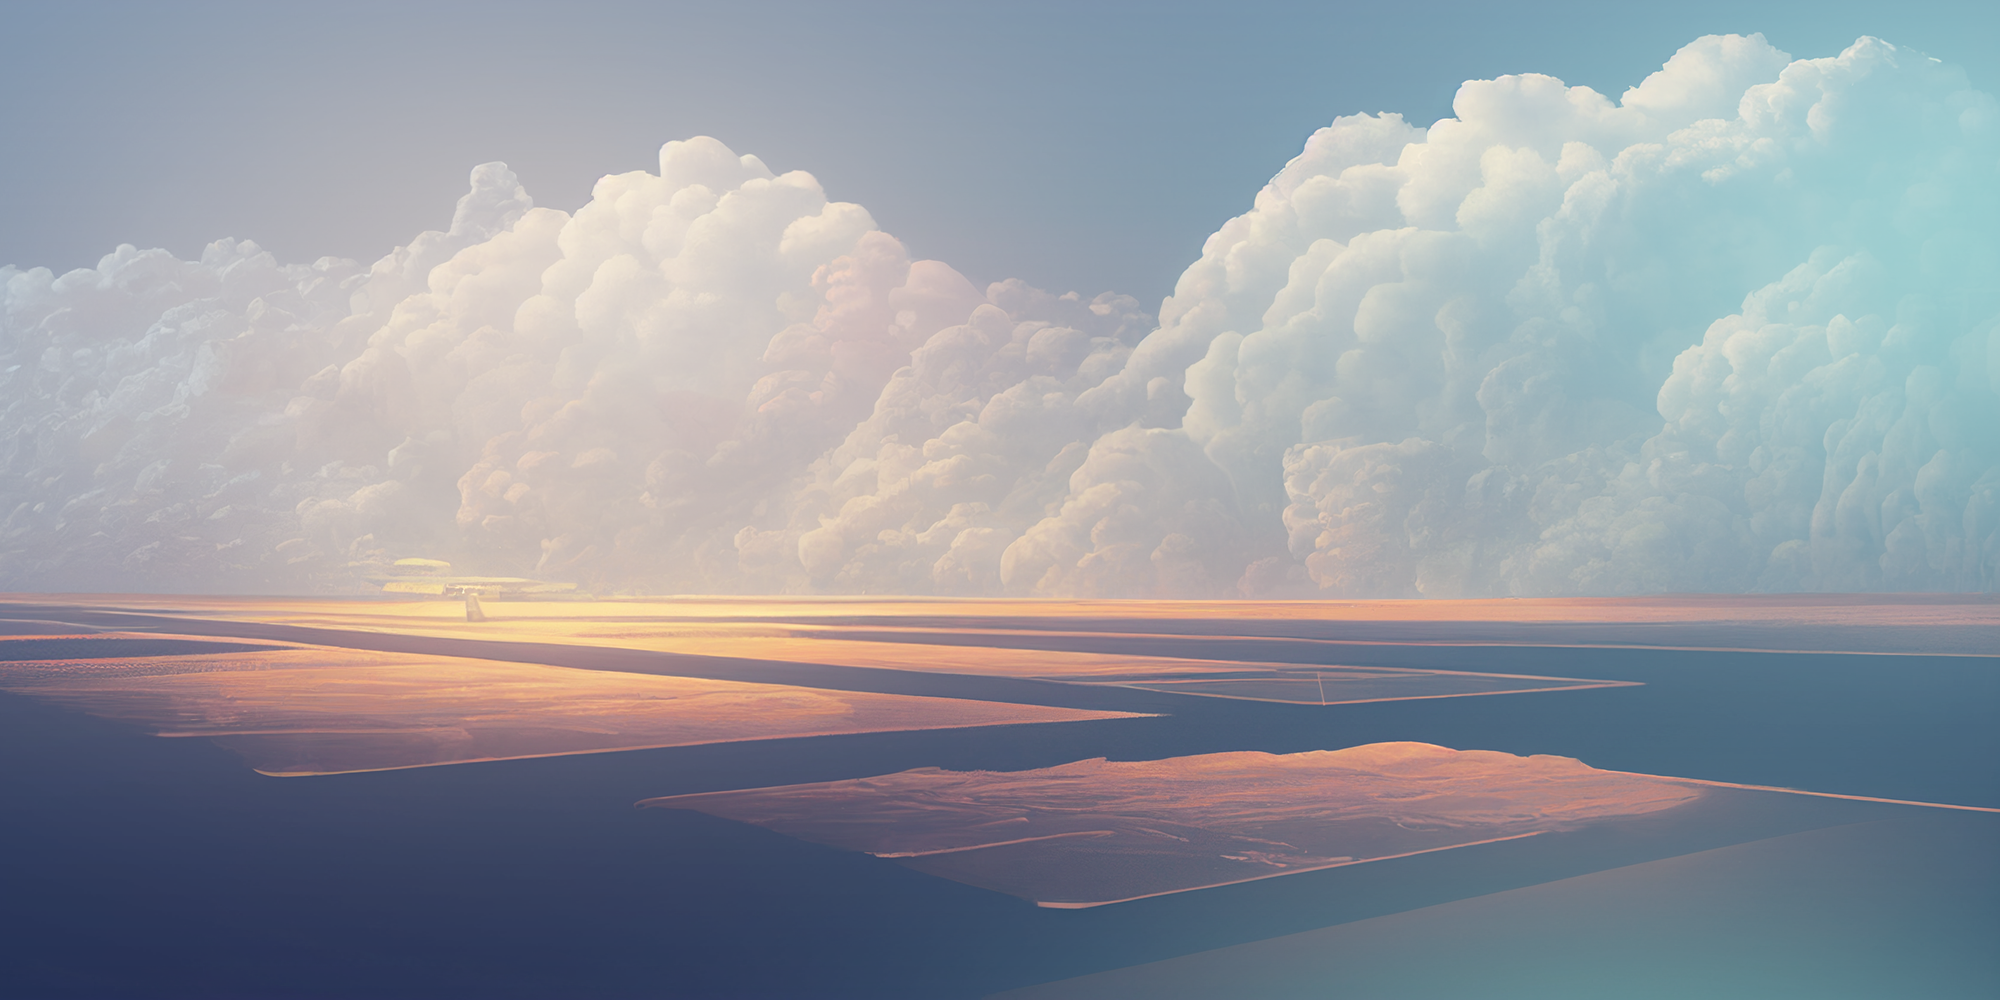
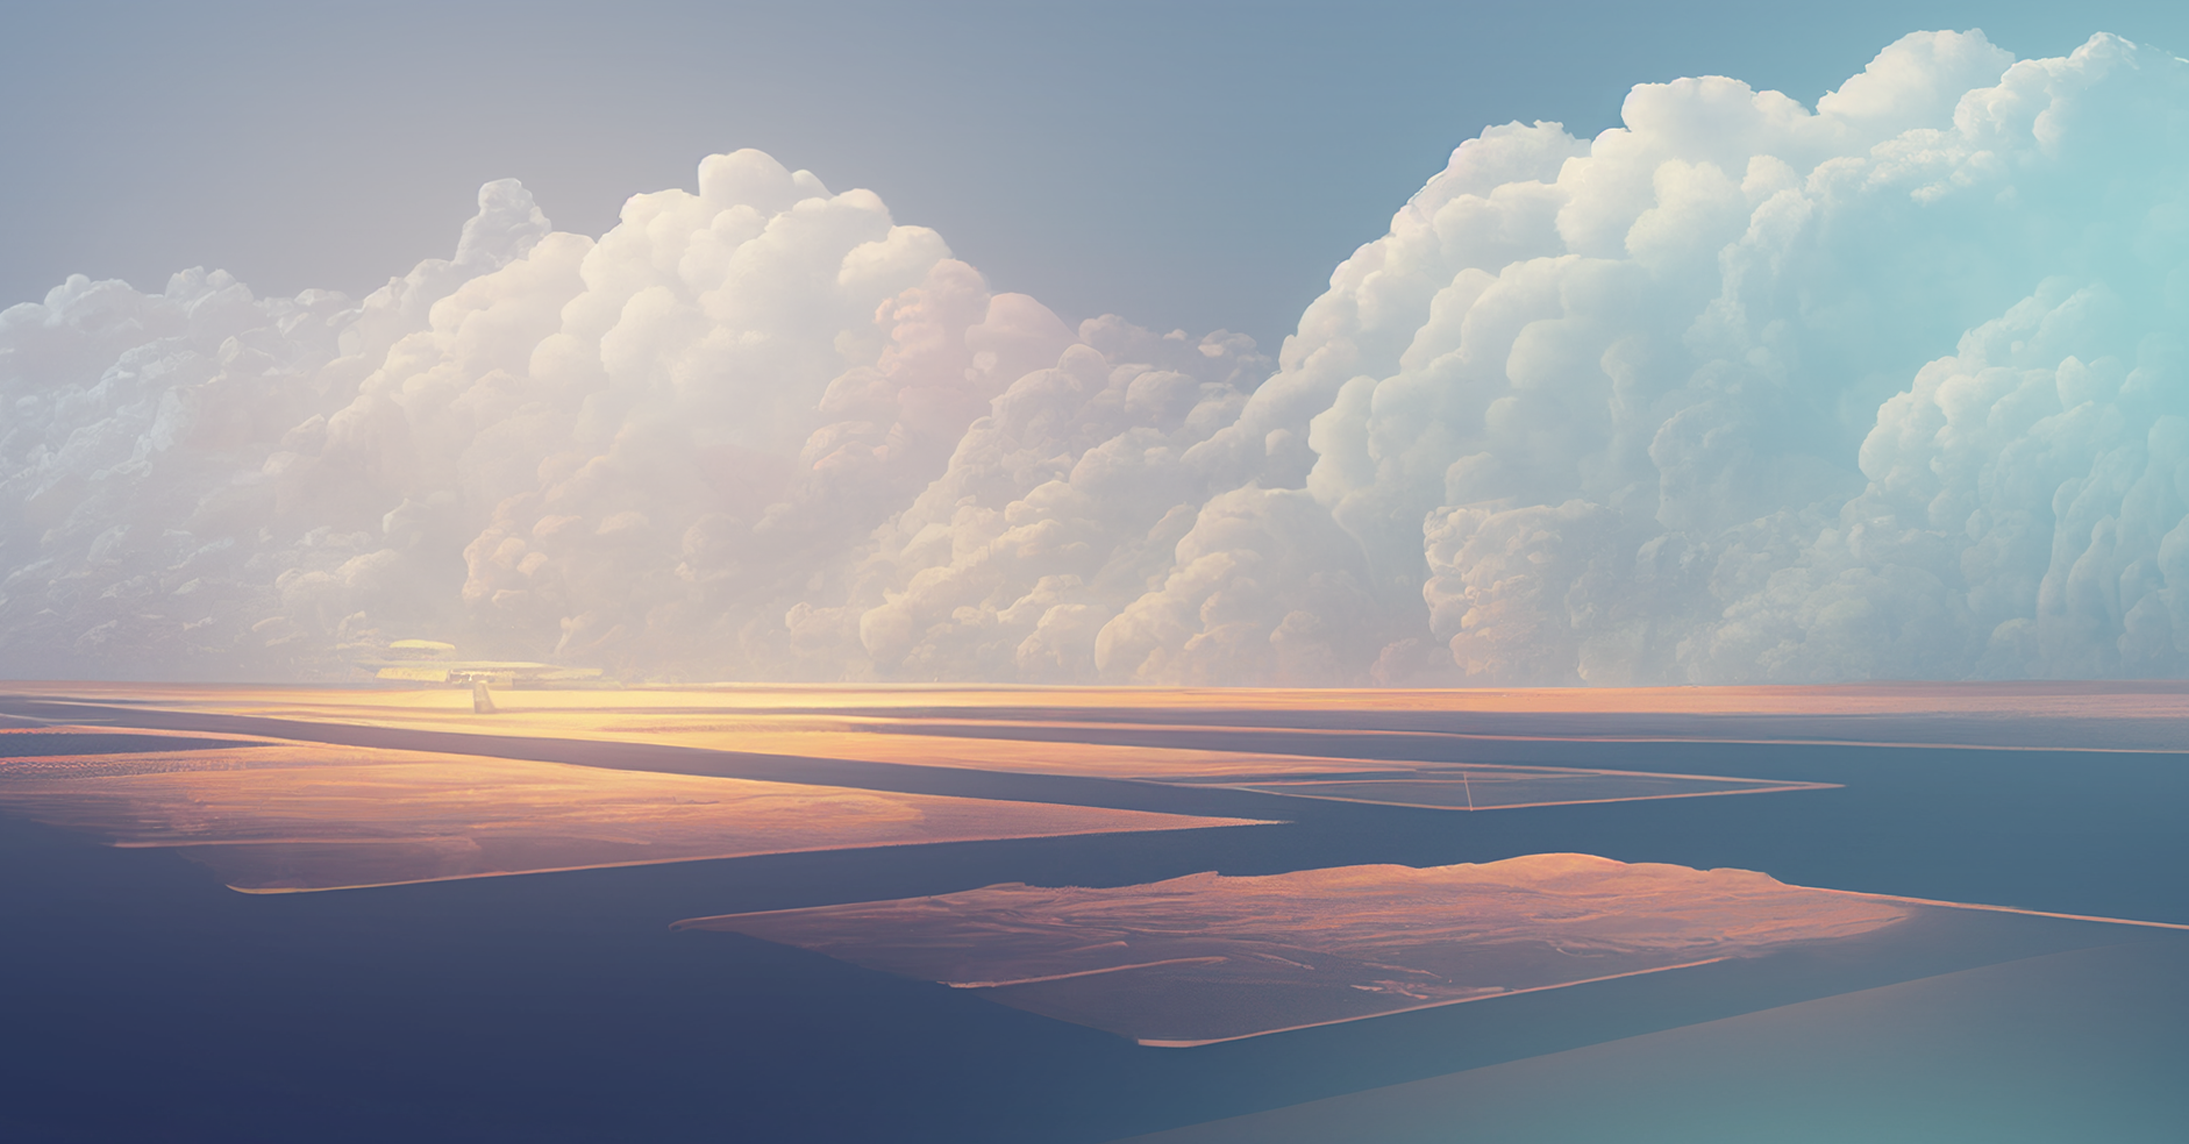
Fix: Background Fixed

diff --git a/style.css b/style.css
@@ -27,10 +27,9 @@
 body {
   background-image: url("images/background.png");
   background-position: auto center;
-  transition: all 0.1s ease-out;
-  background-size: 110%;
+  transition: all 2s ease-out;
+  background-size: 100%;
   background-repeat: no-repeat;
-  background-clip: content-box;
 }
 
 .navbar {
